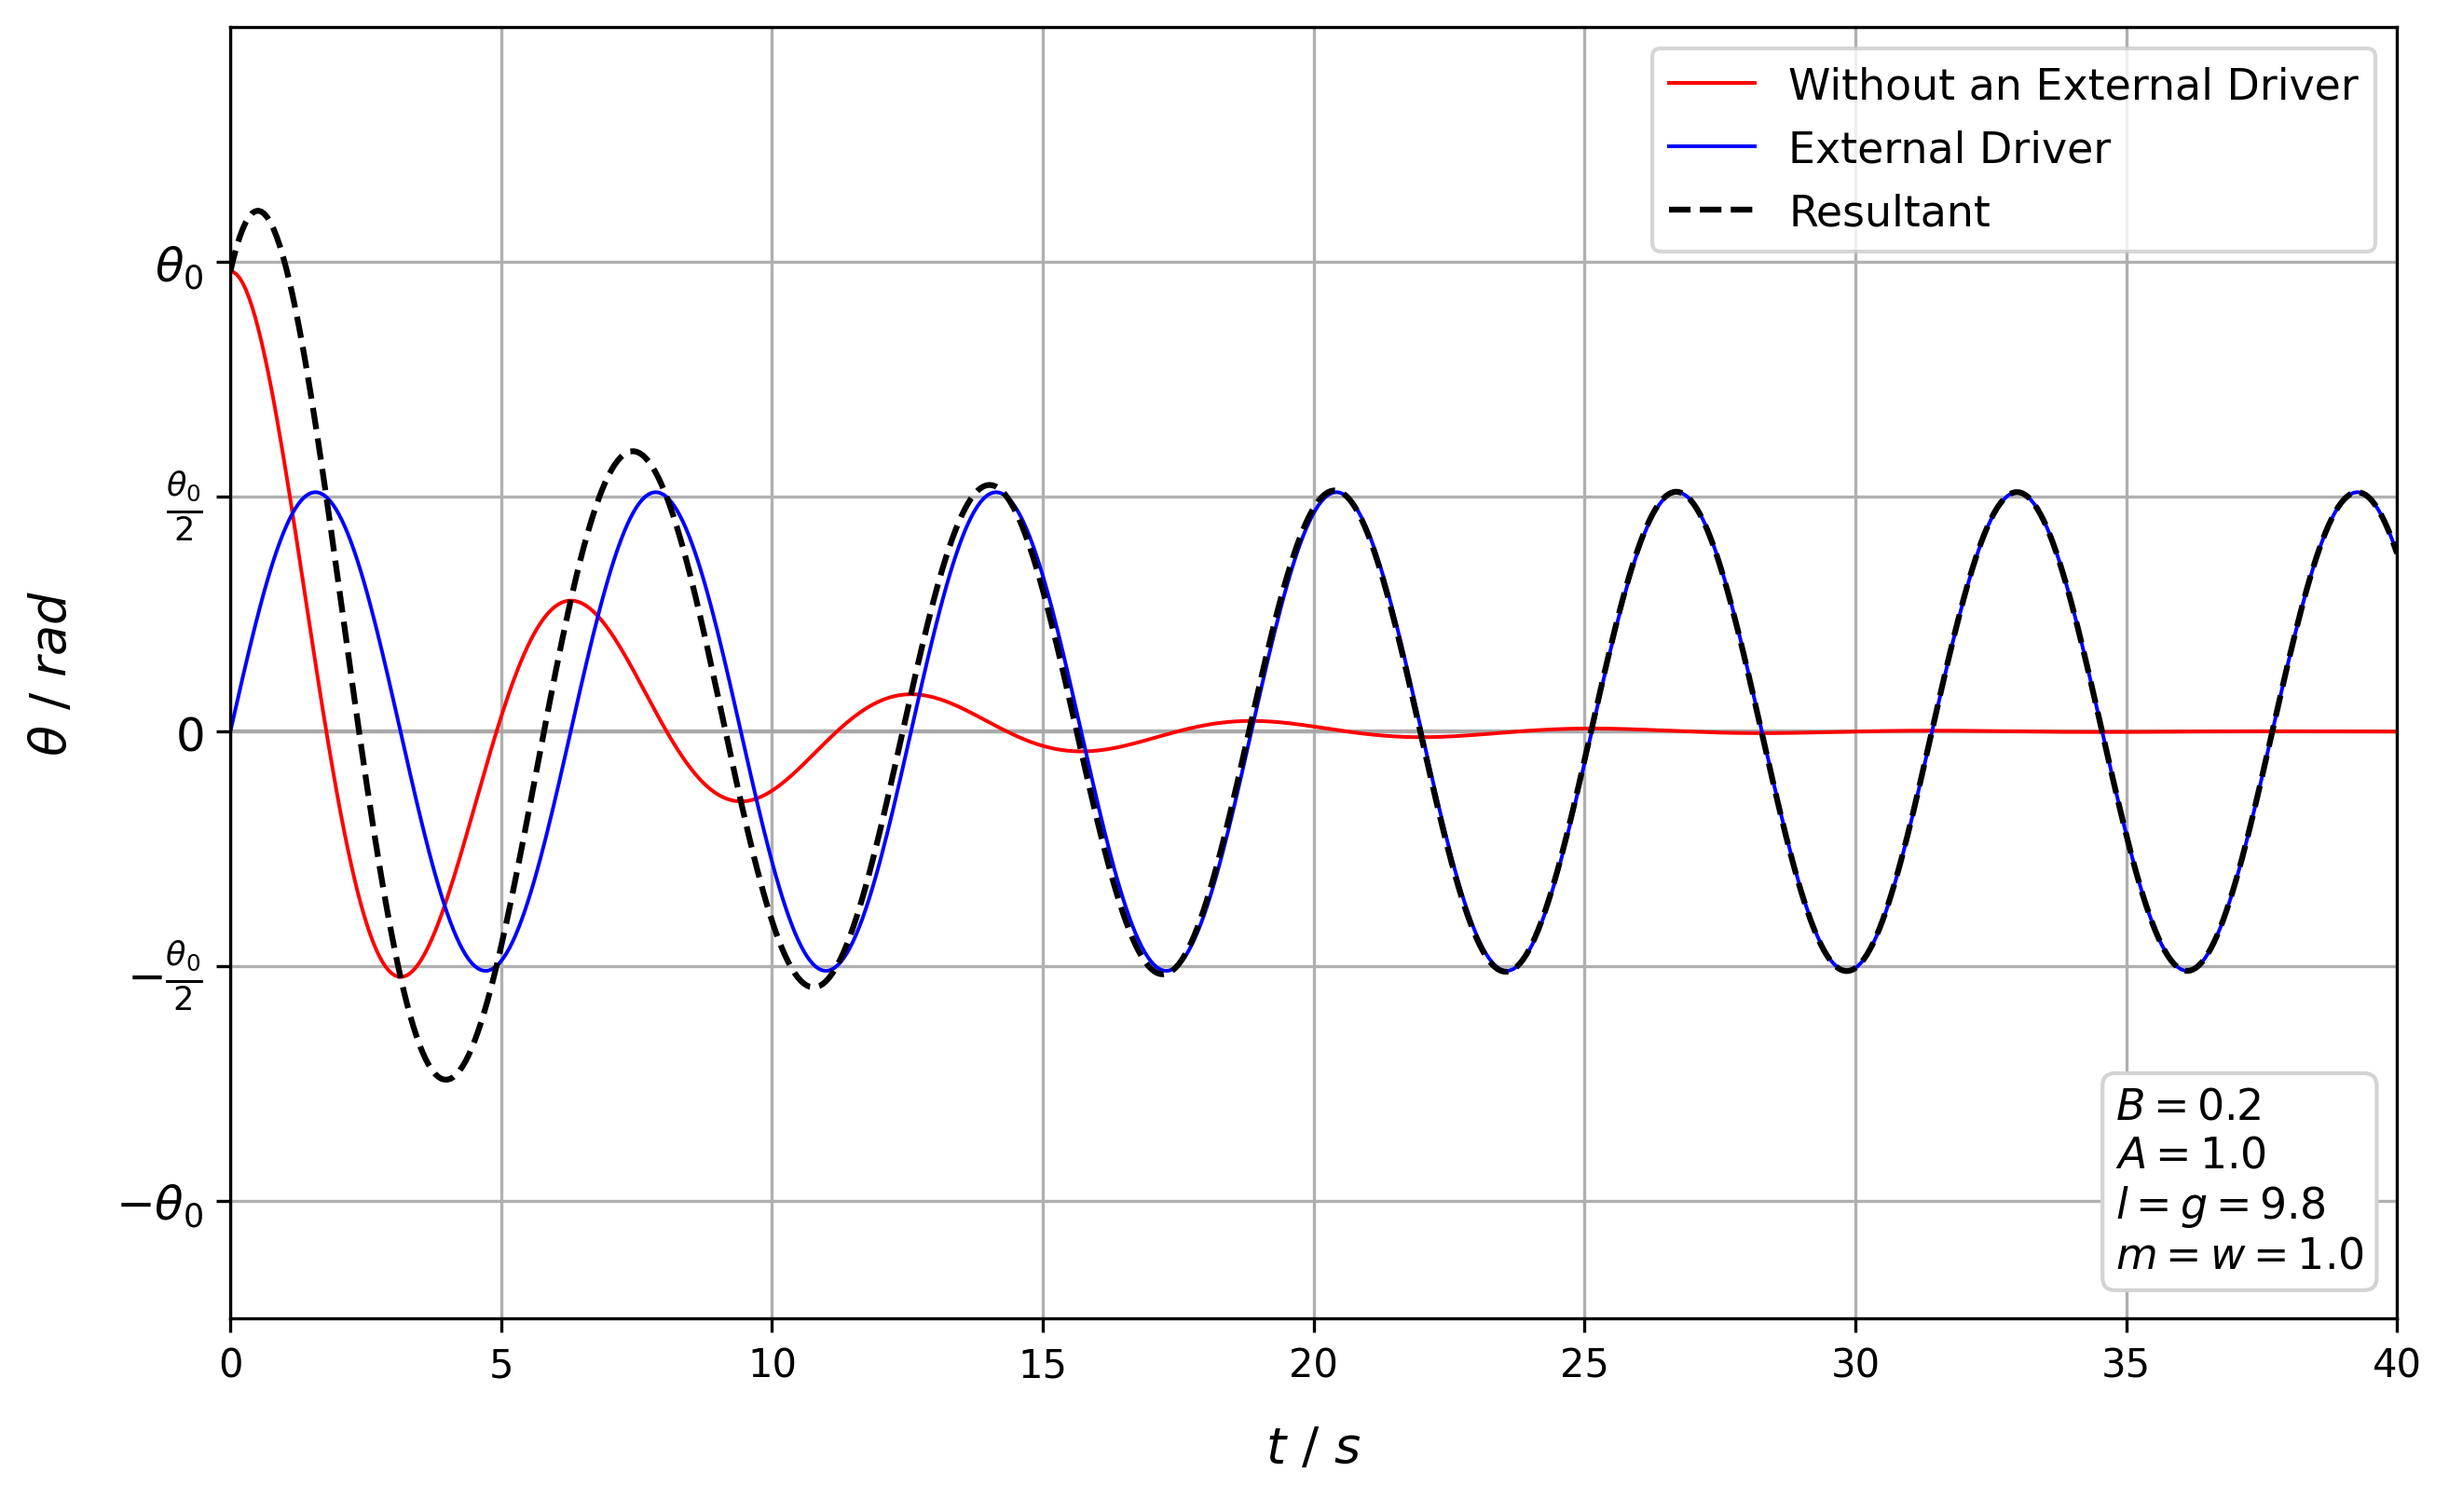
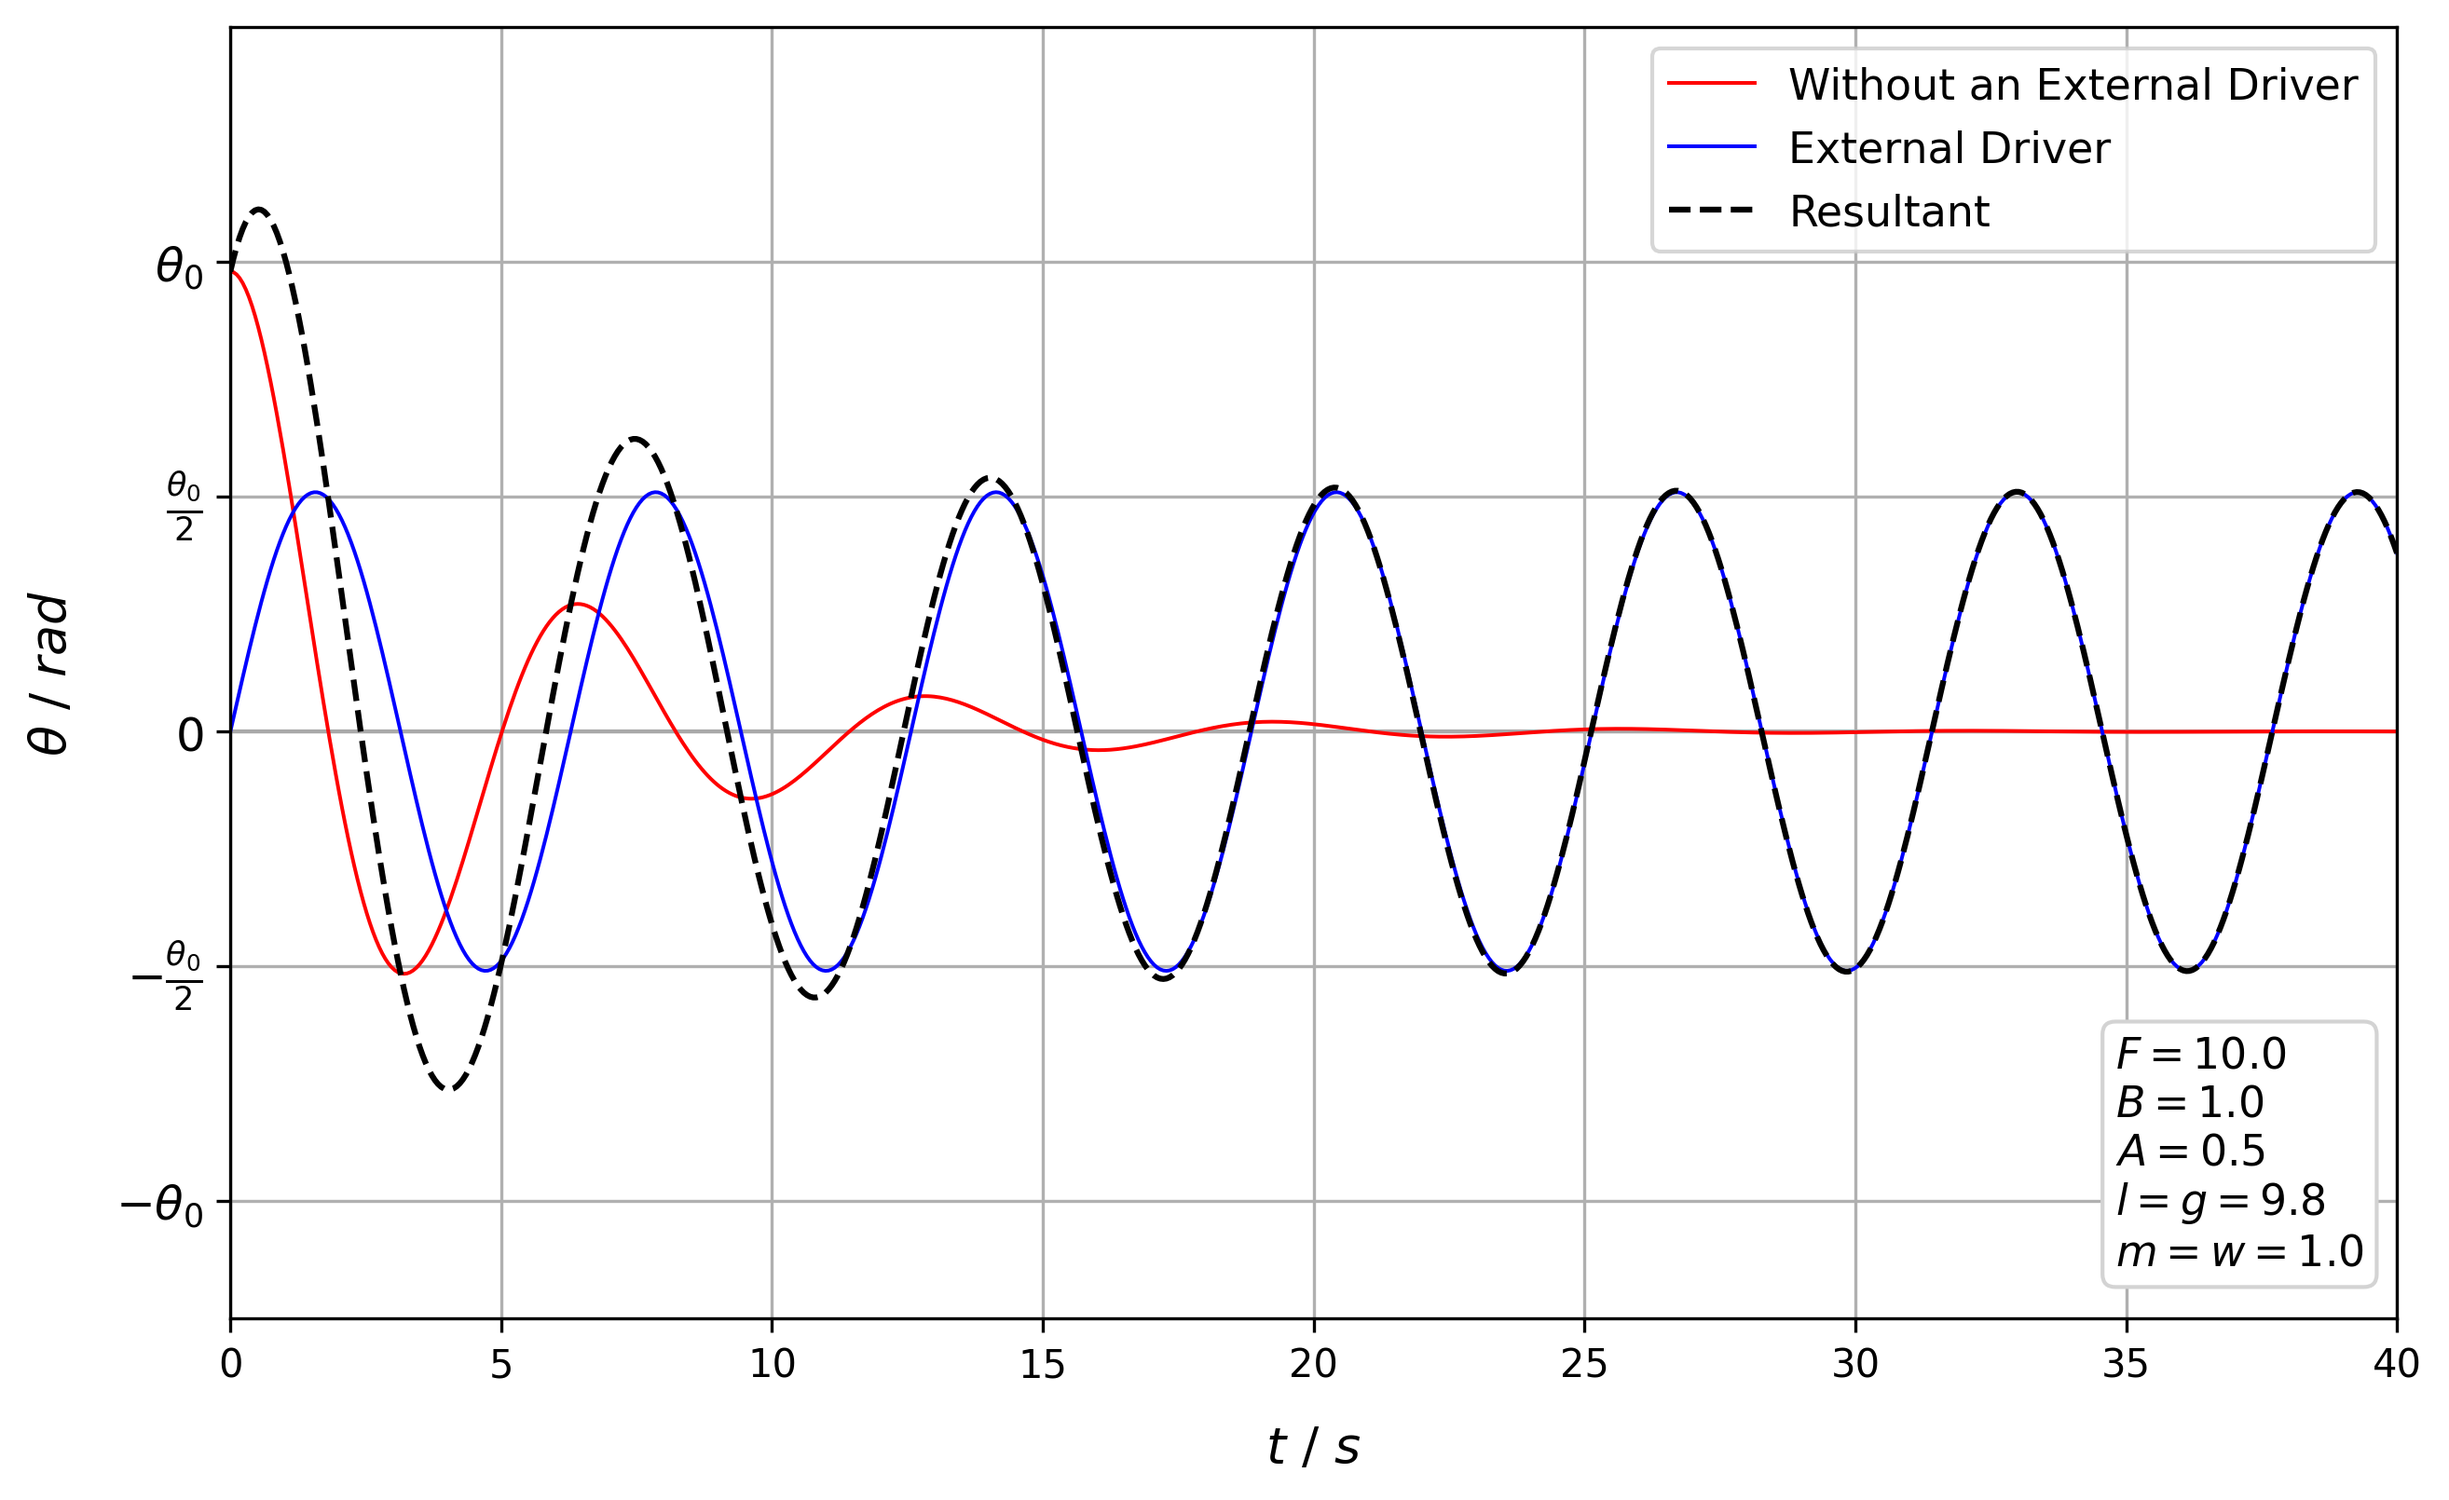
Changed Resonance

diff --git a/ResonanceGraphs/DrivingOscillator.py b/ResonanceGraphs/DrivingOscillator.py
@@ -2,25 +2,25 @@ import numpy as np
 import matplotlib.pyplot as plt
 
 # Constants
-B = 0.2
-A = 1
+beta = 0.2
+B = 1
 m = 1.0  # Mass (kg)
 w = 1.0  # Frequency of the driving force (s^-1)
 L = 9.81  # Length of pendulum (m)
 g = 9.81  # Acceleration due to gravity (m/s^2)
-F_0 = 2  # Amplitude of driving force (N)
+F_0 = 10  # Amplitude of driving force (N)
 w0 = np.sqrt(g / L)  # Natural frequency
-wd = np.sqrt(w0**2-B**2)
-phi = np.arctan(B/(np.sqrt(w0**2-B**2)))
+wd = np.sqrt(w0**2-beta**2)
+phi = np.arctan(beta/(np.sqrt(w0**2-beta**2)))
 delt = np.pi/2
 
 # Time Variable
 t = np.linspace(0, 40, 700)
 
-ht = A * np.exp(-B * t) * np.cos(w0 * t - phi)
-C = F_0 / (m * L * np.sqrt((w0**2 - w**2)**2 + (2 * B * w)**2))
+ht = B * np.exp(-beta * t) * np.cos(wd * t - phi)
+A = F_0 / (m * L * np.sqrt((w0**2 - w**2)**2 + (2 * B * w)**2))
+pt = A * np.cos(w * t - delt)
 print(A)
-pt = C * np.cos(w * t - delt)
 
 res = pt + ht
 fig, ax = plt.subplots(figsize=(10, 6))
@@ -46,6 +46,7 @@ ax.set_yticklabels([r'$-\theta_0$', r'$-\frac{\theta_0}{2}$', r'$0$', r'$\frac{\
 
 # Text Box to Display the Parameters
 textstr = '\n'.join((
+    r'$F=%.1f$' % (F_0,),
     r'$B=%.1f$' % (B,),
     r'$A=%.1f$' % (A, ),
     r'$l=g=%.1f$' % (L, ),
@@ -53,7 +54,7 @@ textstr = '\n'.join((
 
 props = dict(boxstyle='round', facecolor='white', alpha=1, edgecolor='lightgrey')
 
-ax.text(0.87, 0.18, textstr, transform=ax.transAxes, fontsize=11,
+ax.text(0.87, 0.22, textstr, transform=ax.transAxes, fontsize=11,
         verticalalignment='top', bbox=props)
 
 plt.savefig("DrivingOscillator.png", dpi=300, bbox_inches='tight')
